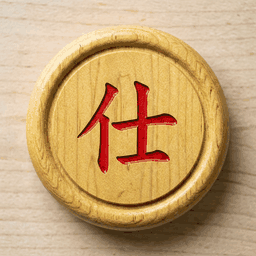
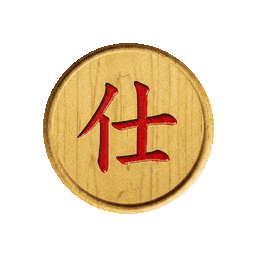
V2.3: 棋子背景彻底抠透明(floodfill+圆形硬遮罩)，消除白边遮挡棋盘线

diff --git a/scripts/_make_transparent.py b/scripts/_make_transparent.py
@@ -1,0 +1,54 @@
+#!/usr/bin/env python3
+# -*- coding: utf-8 -*-
+"""把棋子图处理为干净透明背景：
+1) floodfill 去掉四角浅色背景（粗阈值）
+2) 再叠加一个以图中心、半径 R 的圆形硬遮罩，圆外 100% 透明
+   —— 彻底消除圆盘外的任何残留白边/投影，绝不盖住棋盘线。
+"""
+import sys, os
+from PIL import Image, ImageDraw
+
+BASE = os.path.dirname(os.path.dirname(os.path.abspath(__file__)))
+
+
+def make_clean_alpha(src_path, radius_ratio=0.335, flood_thresh=60):
+    im = Image.open(src_path).convert('RGBA')
+    w, h = im.size
+    # 1) floodfill 粗略去背景
+    try:
+        ImageDraw.floodfill(im, (0, 0), (0, 0, 0, 0), thresh=flood_thresh)
+        for seed in [(w - 1, 0), (0, h - 1), (w - 1, h - 1)]:
+            ImageDraw.floodfill(im, seed, (0, 0, 0, 0), thresh=flood_thresh)
+    except Exception:
+        pass
+    # 2) 圆形硬遮罩：圆内保留（与原图取交集），圆外透明
+    mask = Image.new('L', (w, h), 0)
+    draw = ImageDraw.Draw(mask)
+    cx, cy = w // 2, h // 2
+    r = int(min(w, h) * radius_ratio)
+    draw.ellipse([cx - r, cy - r, cx + r, cy + r], fill=255)
+    # 用遮罩限制 alpha：圆外变 0
+    px = im.load()
+    mx = mask.load()
+    for y in range(h):
+        for x in range(w):
+            if mx[x, y] == 0:
+                px[x, y] = (0, 0, 0, 0)
+    return im
+
+
+def main():
+    if len(sys.argv) > 1:
+        targets = [sys.argv[1]]
+    else:
+        pieces = os.path.join(BASE, 'assets', 'pieces')
+        targets = [os.path.join(pieces, f) for f in sorted(os.listdir(pieces))
+                   if f.endswith('.png')]
+    for p in targets:
+        out = make_clean_alpha(p)
+        out.save(p, 'PNG', optimize=True)
+        print('clean:', os.path.basename(p), os.path.getsize(p) // 1024, 'KB')
+
+
+if __name__ == '__main__':
+    main()

diff --git a/gui/board.py b/gui/board.py
@@ -110,36 +110,18 @@ class ChessBoardWidget(QWidget):
         self._create_board_background()
 
     def _apply_circular_mask(self, pixmap):
-        """把方形棋子图处理为：圆盘内不透明、圆盘外透明，文字保持居中。"""
-        size = max(pixmap.width(), pixmap.height())
-        # 转 QImage 处理 alpha
+        """棋子图已预处理为圆盘内不透明、圆盘外透明（自带 alpha）。
+        这里只做居中正方形裁剪，保留原 alpha，不再叠加圆形遮罩。"""
         img = pixmap.toImage().convertToFormat(QImage.Format_ARGB32)
         w, h = img.width(), img.height()
-        # 以较短边为直径，居中裁剪为正方形
         s = min(w, h)
         cx, cy = w // 2, h // 2
-        # 创建圆形遮罩
-        mask = QImage(s, s, QImage.Format_ARGB32)
-        mask.fill(Qt.transparent)
-        mp = QPainter(mask)
-        mp.setRenderHint(QPainter.Antialiasing)
-        mp.setBrush(QBrush(QColor(255, 255, 255)))
-        mp.setPen(Qt.NoPen)
-        # 半径留 2px 透明边，避免边缘锯齿
-        r = s // 2 - 2
-        mp.drawEllipse(s // 2 - r, s // 2 - r, r * 2, r * 2)
-        mp.end()
-        # 把源图对应区域拷到正方形画布
         square = QImage(s, s, QImage.Format_ARGB32)
         square.fill(Qt.transparent)
         sp = QPainter(square)
         sp.setRenderHint(QPainter.Antialiasing)
-        sp.setBrush(QBrush(QColor(255, 255, 255)))
-        sp.setPen(Qt.NoPen)
         sp.drawImage(0, 0, img, cx - s // 2, cy - s // 2, s, s)
         sp.end()
-        # 应用遮罩
-        square.setAlphaChannel(mask)
         return QPixmap.fromImage(square)
 
     def _create_board_background(self):

diff --git a/scripts/create_deb.py b/scripts/create_deb.py
@@ -10,7 +10,7 @@ import subprocess
 import shutil
 
 APP_NAME = "chinese-chess"
-VERSION = "2.1.0"
+VERSION = "2.2.0"
 
 def run_command(cmd, check=True):
     """运行命令"""
